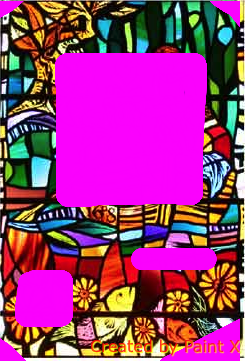
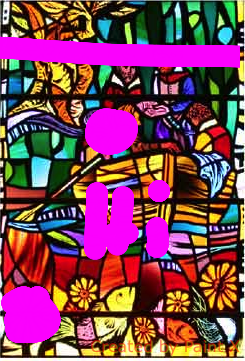
maksing function is now sort of working

diff --git a/mask_detect.py b/mask_detect.py
@@ -5,6 +5,7 @@ import subprocess
 
 DIFF_THRESHOLD = 0
 IMAGE1 = None
+IMAGE2 = None
 
 
 def gen_p_diff():
@@ -13,6 +14,7 @@ def gen_p_diff():
     output to console results and generate a visual diff for humans
     """
     global IMAGE1
+    global IMAGE2
 
     IMAGE1_WIDTH, IMAGE1_HEIGHT = IMAGE1.size
 
@@ -25,6 +27,7 @@ def gen_p_diff():
     diff_image = Image.new('RGB', (output_width, output_height))
 
     image1_pixels = IMAGE1.load()
+    image2_pixels = IMAGE2.load()
     diff_pixels = diff_image.load()
 
     # iterate through the pixels of both images and compare, if different,
@@ -35,14 +38,14 @@ def gen_p_diff():
         for j in range(output_height-1):
             print "dbg: " + str(image1_pixels[i,j])
             if is_masked(image1_pixels[i,j]):
-                diff_pixels = image1_pixels[i,j]
+                diff_pixels[i,j] = image2_pixels[i,j]
             #if pixels_are_different(image1_pixels[i, j], image2_pixels[i, j]):
                 # write a yellow pixel to the difference mask and
                 # increment difference count
                 #diff_pixels[i, j] = (128, 128, 0)
                 #diff_count += 1
             else:
-                diff_pixels = (0,0,0)
+                diff_pixels[i,j] = (0,0,0)
                 # write a black pixel to the diffrence mask
                 #diff_pixels[i, j] = (0, 0, 0)
 
@@ -70,8 +73,7 @@ def gen_p_diff():
 
 def is_masked(pixel):
     #if pixel[0] == 250 and pixel[1] == 1 and pixel[3] == 253:
-    if pixel[0] in range(240, 255) and pixel[1] in range(0, 4) and pixel[2] in range(250, 255):
-        print "FOUND MASK!"
+    if pixel[0] in range(245, 260) and pixel[1] in range(0, 4) and pixel[2] in range(250, 260):
         return True
     else:
         return False
@@ -94,11 +96,12 @@ def pixels_are_different(pixel1, pixel2):
 
 
 if __name__ == '__main__':
-    if len(sys.argv) != 2:
+    if len(sys.argv) != 3:
         print "Please specify both ImageA and ImageB and a difference " \
                 " threshold (suggested: 40)\n >python pdiff.py <ImageA> <ImageB> <threshold>\n"
         sys.exit("Wrong number of arguments")
 
     IMAGE1 = Image.open(sys.argv[1])
+    IMAGE2 = Image.open(sys.argv[2])
 
     gen_p_diff()
